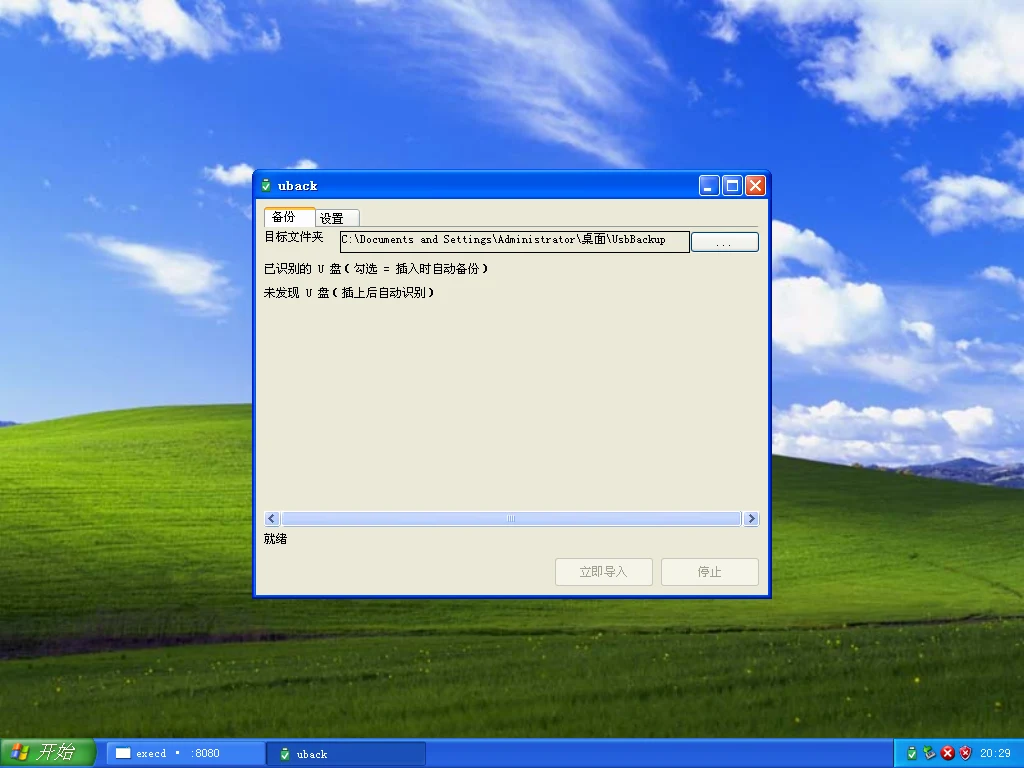
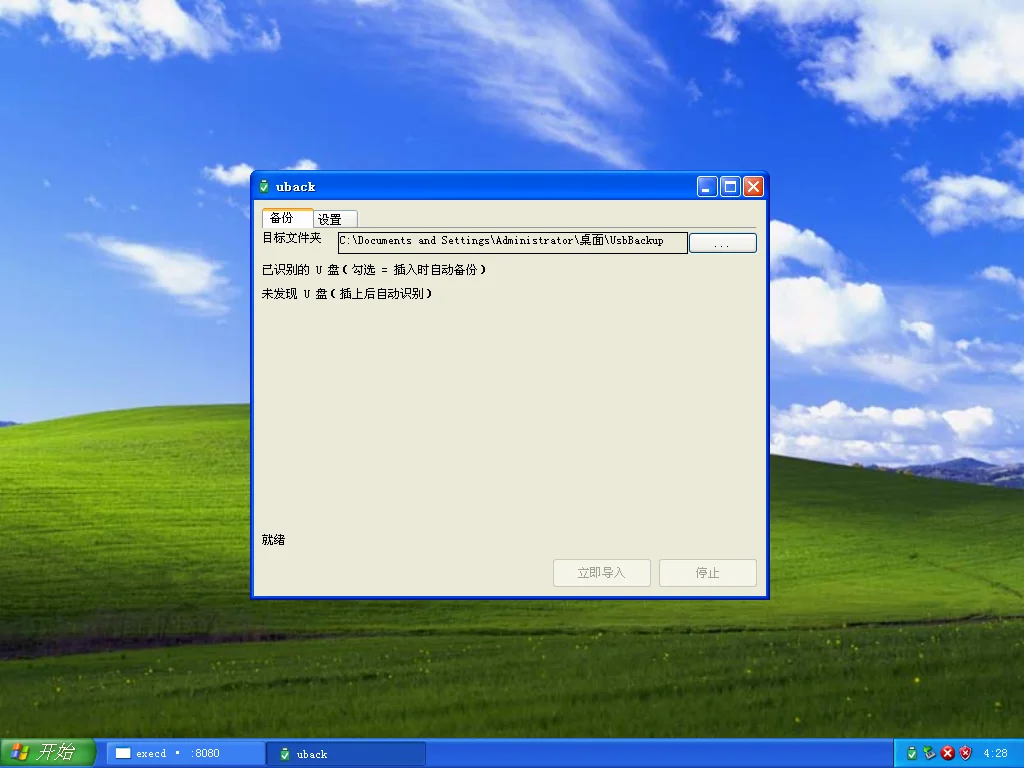
fix(uback): drop the hardcoded contentWidth so the list stops scrolling
The ScrollView was told contentWidth=480, but the viewport inside the
Tab is narrower, so a horizontal scrollbar appeared. Let the content
width follow the viewport and stretch the rows instead.

Changed region(s): [[0.2188, 0.2188, 0.7812, 0.7812], [0.9688, 0.9688, 1.0, 1.0]]

diff --git a/demos/uback/src/main.tsx b/demos/uback/src/main.tsx
@@ -91,11 +91,11 @@ function BackupPane() {
                 <PathPicker type="folder" value={st.cfg.destRoot} onChange={onDestRoot} style={{ flexGrow: 1, height: 22 }} />
             </w>
             <w type="STATIC" text="已识别的 U 盘（勾选 = 插入时自动备份）" style={{ height: 18 }} />
-            <ScrollView style={{ flexGrow: 1 }} contentWidth={480} contentHeight={Math.max(rows, 1) * ROW_H + 4}>
+            <ScrollView style={{ flexGrow: 1 }} contentHeight={Math.max(rows, 1) * ROW_H + 4}>
                 {rows === 0 ? (
-                    <w type="STATIC" text="未发现 U 盘（插上后自动识别）" style={{ width: 480, height: ROW_H }} />
+                    <w type="STATIC" text="未发现 U 盘（插上后自动识别）" style={{ alignSelf: 'stretch', height: ROW_H }} />
                 ) : st.devices.map((d) => (
-                    <w type="STATIC" key={d.key} style={{ flexDirection: 'row', alignItems: 'center', gap: 4, width: 480, height: ROW_H }}>
+                    <w type="STATIC" key={d.key} style={{ flexDirection: 'row', alignItems: 'center', gap: 4, alignSelf: 'stretch', height: ROW_H }}>
                         <CheckBox checked={d.allow} disabled={d.noSerial || job.running} label={rowText(d)}
                             onChange={() => toggleAllow(d.key)} style={{ flexGrow: 1 }} />
                         {!d.connected ? (
